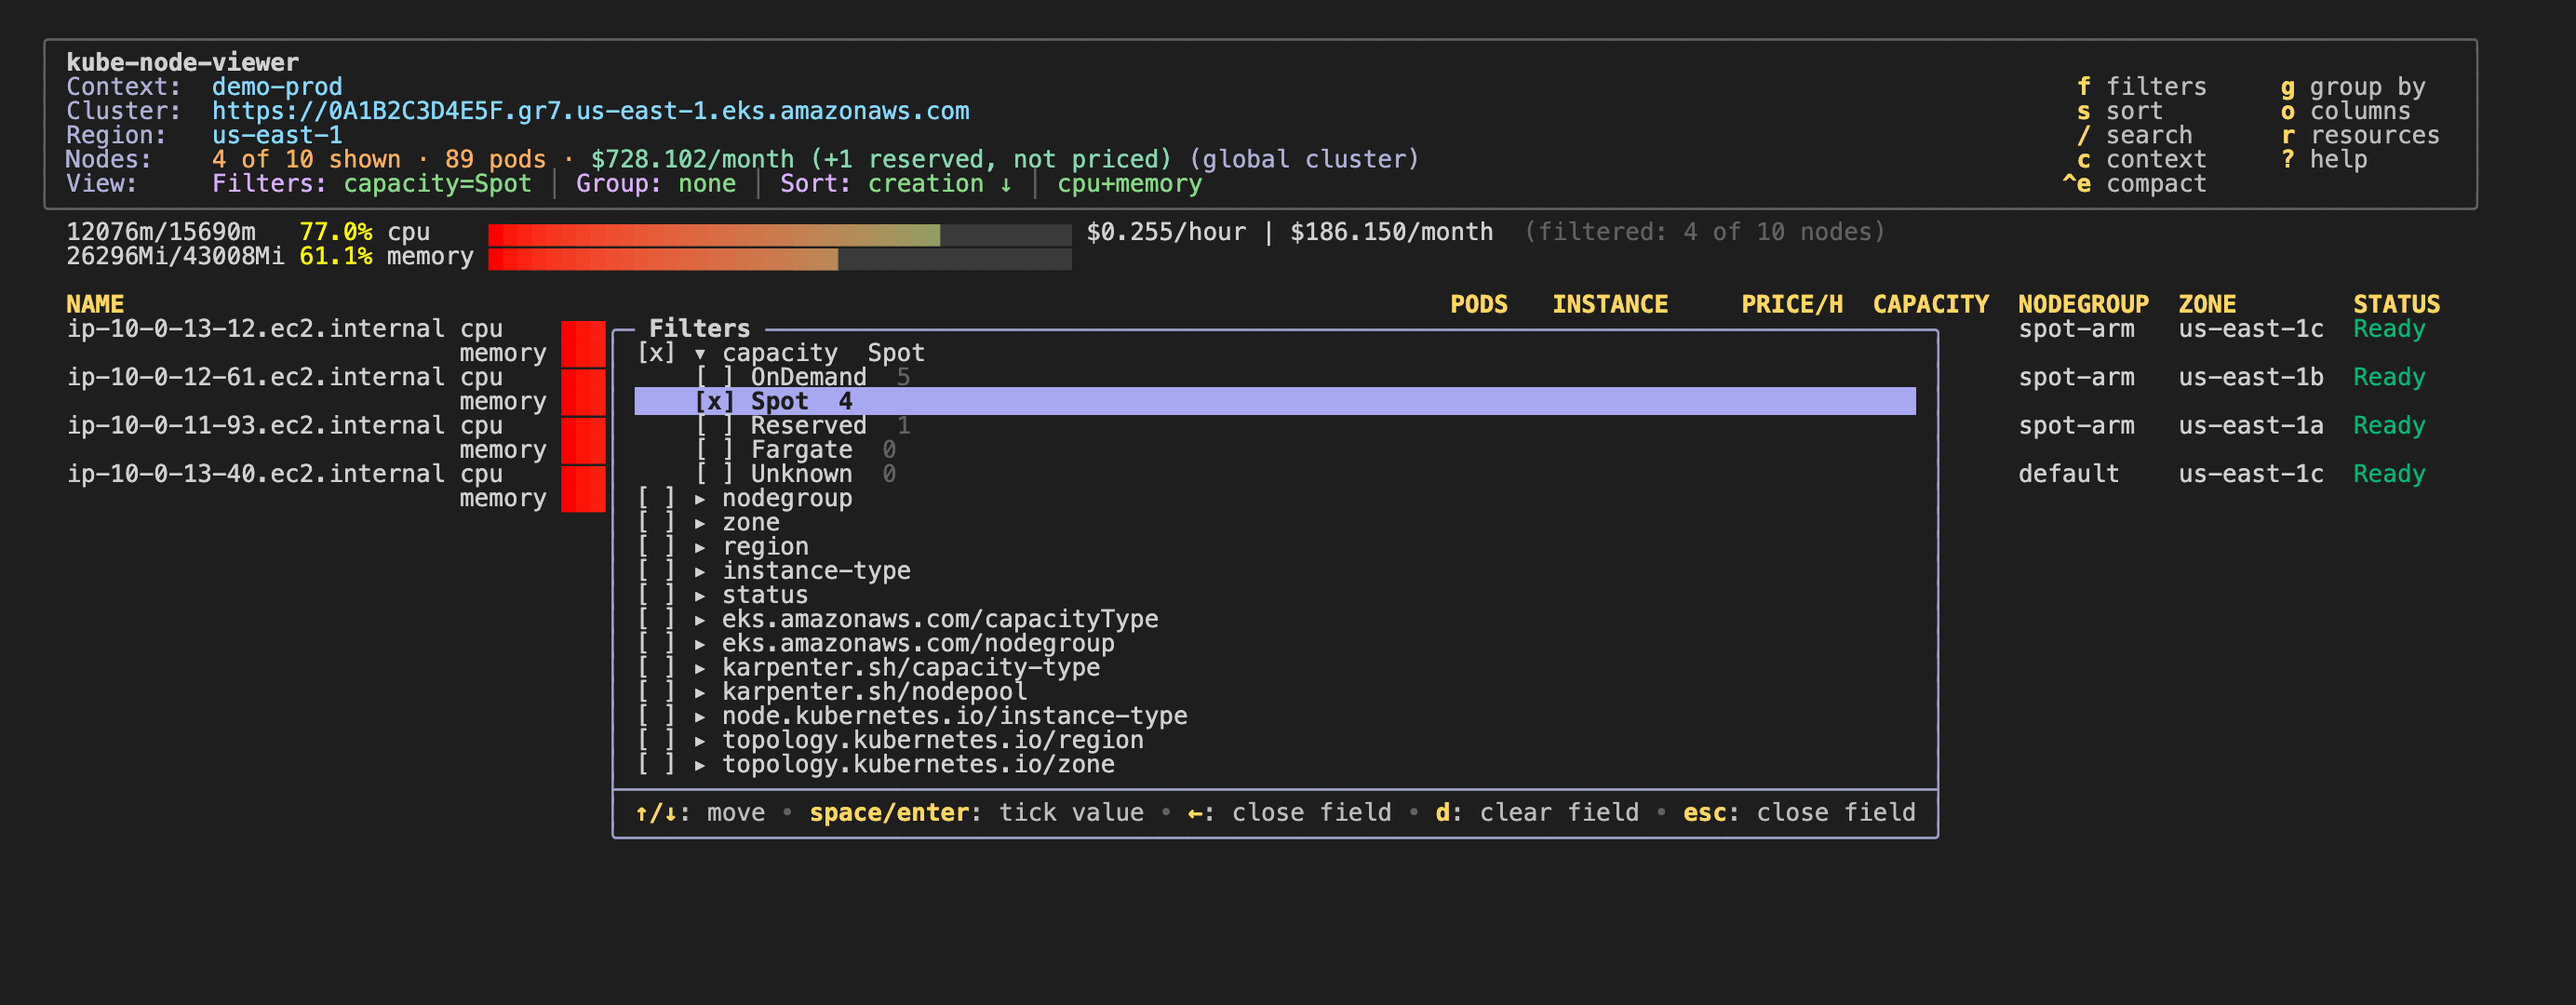
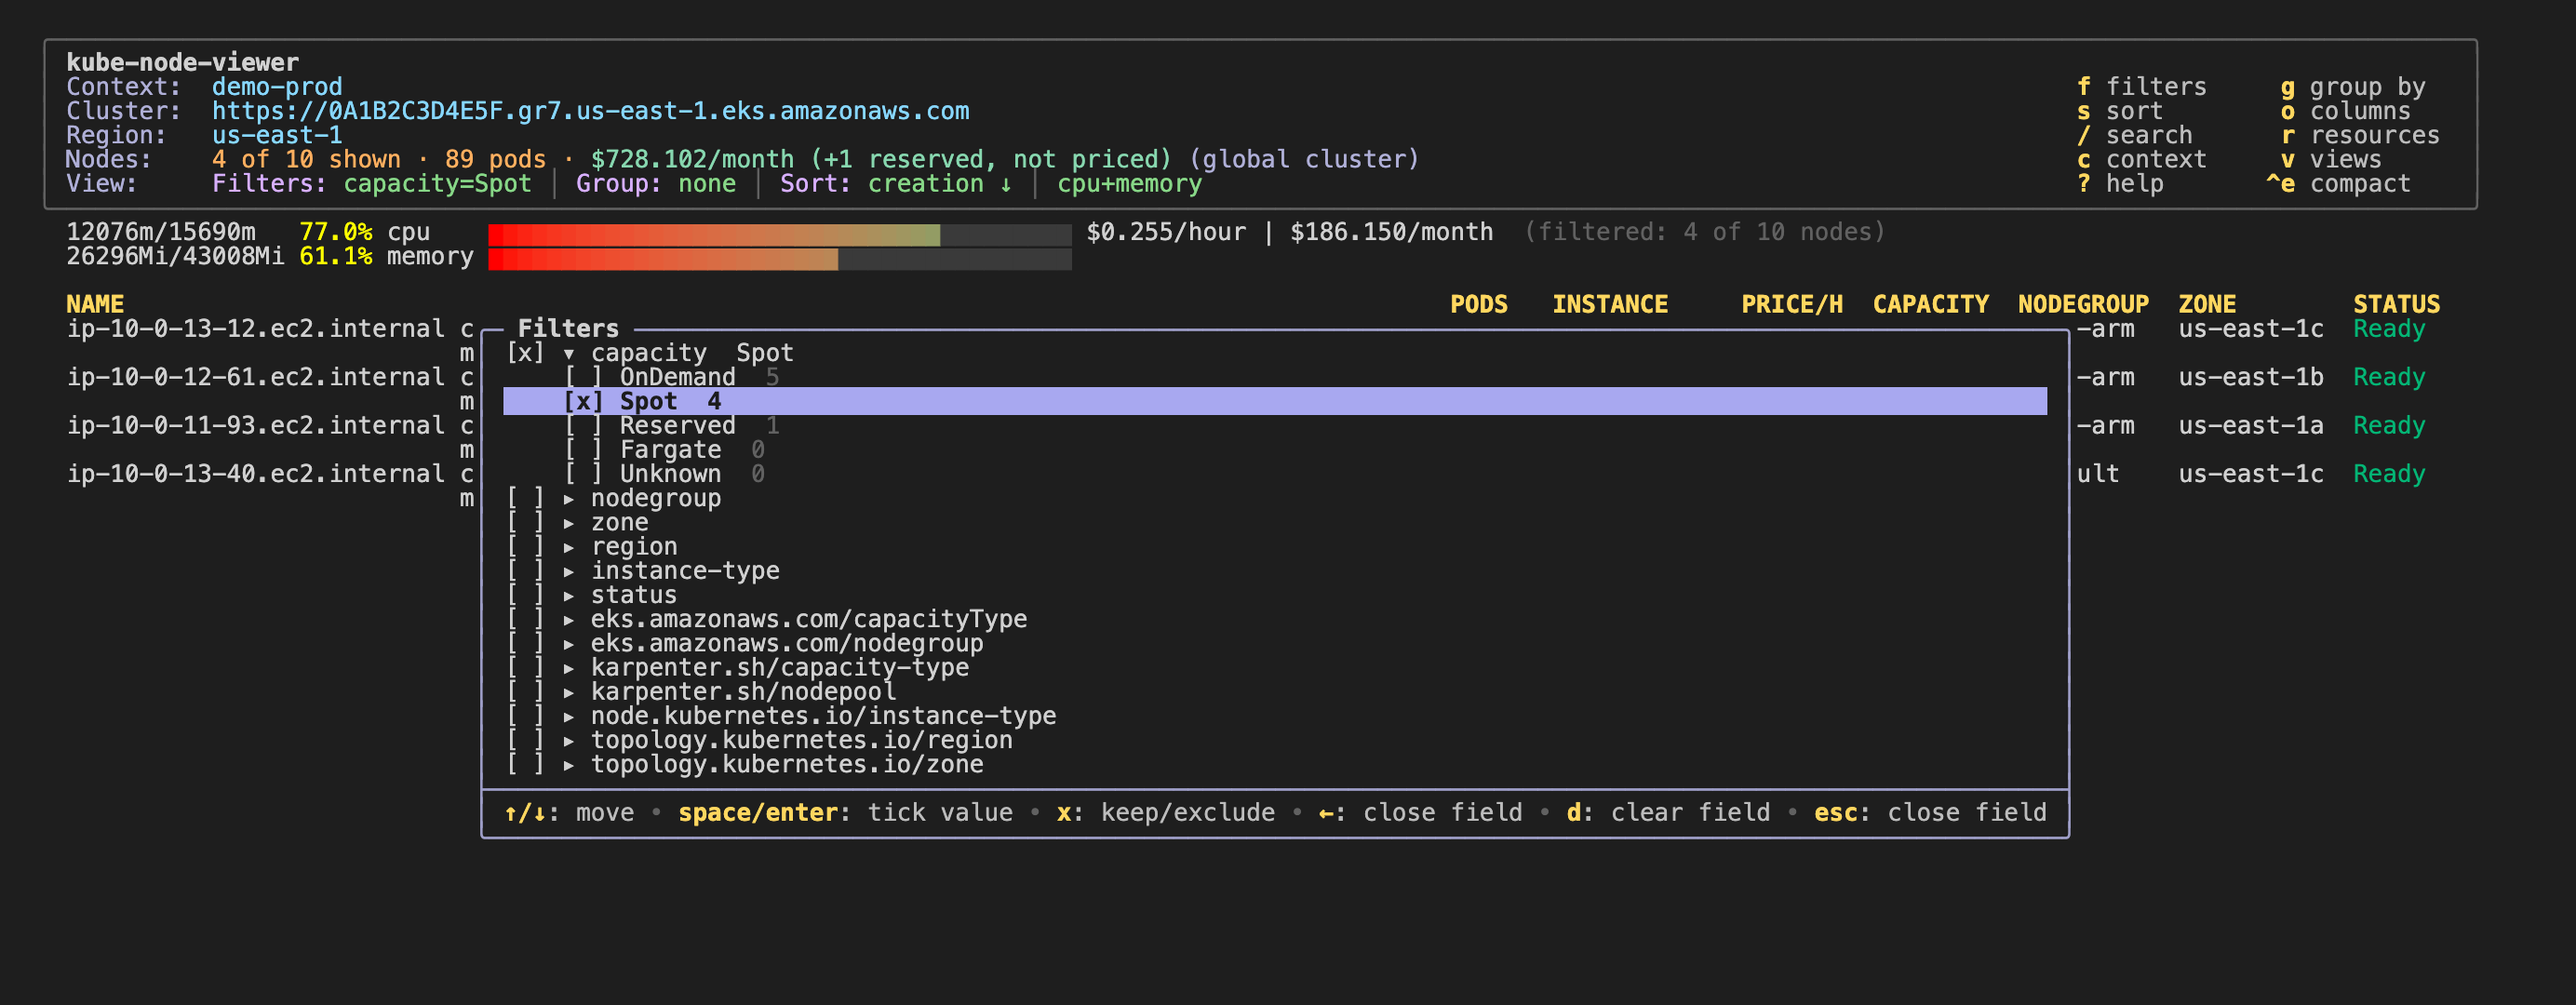
docs: views and export in README, CHANGELOG and screenshots

diff --git a/pkg/model/screenshots_test.go b/pkg/model/screenshots_test.go
@@ -157,6 +157,10 @@ func TestScreenshots(t *testing.T) {
 		{"group-by", 168, 38, func(u *UIModel) { press(u, "g", "down", " ", "down", "down", " ") }},
 		{"columns", 168, 38, func(u *UIModel) { press(u, "o") }},
 		{"contexts", 168, 38, func(u *UIModel) { apply(u, press(u, "c")) }},
+		{"views", 168, 38, func(u *UIModel) {
+			u.SetViews(memViews{"cost per nodepool": DefaultViewState(), "spot by zone": DefaultViewState()})
+			press(u, "v")
+		}},
 		// tall enough to start with the full panel, which ctrl+e compacts
 		{"header-compact", 168, 30, func(u *UIModel) { u.Update(tea.KeyMsg{Type: tea.KeyCtrlE}) }},
 	}

diff --git a/README.md b/README.md
@@ -152,6 +152,8 @@ With `ctrl+e` the header shrinks to two lines:
 | `n` | Fold one level per press when grouping: the nodes, then each sub-group level down to the top level; the next press unfolds all |
 | `d` | While folded: list the next group level under each group as one-line rows, or hide them |
 | `c` | Switch to another kubeconfig context |
+| `v` | Named views: apply one, save the current view under a name, delete |
+| `e` | Export the nodes on screen to CSV and JSON |
 | `ctrl+e` | Compact or expand the header |
 | `←`/`→`, `h`/`l`, `home` | Previous / next / first page |
 | `?` | All keys and colours |
@@ -173,7 +175,9 @@ Every field is listed (`capacity`, `nodegroup`, `zone`, `region`,
 already filtered first. `enter` (or `→`) opens a field in place and lists its
 values with the number of nodes having each; `space` ticks a value and the
 list filters at once. On a field row, `space` turns its filter off and on
-without losing the values, and `d` clears it. `←` or `esc` folds the field.
+without losing the values, `x` switches it between keeping and excluding
+the ticked values (`capacity≠Spot` keeps every node but Spot ones), and `d`
+clears it. `←` or `esc` folds the field.
 
 Values of one field combine with OR, fields with AND: `capacity ∈ {Spot}` and
 `zone ∈ {us-east-1a, us-east-1b}` keeps spot nodes in either zone. A status
@@ -228,6 +232,29 @@ Shown columns first, in screen order, then the others and every label.
 `space` shows or hides the column under the cursor (a new one goes at the
 end) and `K`/`J` move it left or right.
 
+### Views (`v`)
+
+![Views popup](.static/views.png)
+
+Named views are saved combinations of filters, group-by, folding, sort,
+resources and columns, shared by every cluster. `enter` applies one (it
+becomes the cluster's view, saved as usual), `d` deletes it, and
+`+ save current view as…` asks for a name: type it, `enter` saves, `esc`
+cancels. Saving under an existing name replaces it. A named view leaves out
+the search text, groups folded one by one and the header size.
+
+### Export (`e`)
+
+`e` writes every node the filters and search keep (all pages, folded groups
+included) to `kube-node-viewer-<context>-<YYYYMMDD-HHMMSS>.csv` and `.json`
+in the current directory, or next to the state file when the current
+directory is not writable; the footer says where. The CSV has one row per
+node: name, group path, instance type, capacity, node group, zone, region,
+IP, status, age, pods, requested / allocatable / percent per resource, price
+per hour, price kind (`actual`, `equivalent`, `unknown`, `disabled`) and the
+label columns you picked. The JSON adds the view, the totals of the exported
+nodes and of the cluster, the context and the time.
+
 ### Context (`c`)
 
 ![Context popup](.static/contexts.png)
@@ -241,7 +268,8 @@ stays in the panel and the current cluster keeps running.
 ## Saved view per cluster
 
 Filters, group-by, sort, resources, columns, folding depth, details, folded
-groups and the header size are saved per cluster (context name plus API server URL, since
+groups and the header size are saved per cluster, and named views (`v`) for
+all of them, (context name plus API server URL, since
 merged kubeconfigs can repeat context names) in
 `$XDG_STATE_HOME/kube-node-viewer/state.json`, by default
 `~/.local/state/kube-node-viewer/state.json`. Writes are batched and atomic,

diff --git a/CHANGELOG.md b/CHANGELOG.md
@@ -6,6 +6,15 @@ All notable changes to this project are documented here. Format:
 
 ## [Unreleased]
 
+### Added
+
+- Filters can exclude their values: `x` in the Filters panel switches a
+  filter between keeping and excluding (`capacity≠Spot`).
+- Named views (`v`): save the current view under a name, apply or delete it;
+  shared by every cluster, kept in the state file.
+- Export (`e`): the nodes on screen to CSV and JSON in the current directory
+  (or next to the state file), with groups, prices and price kinds.
+
 ### Changed
 
 - The cluster summary follows the filters and search: usage and cost are

diff --git a/specs/views-and-export/tasks.md b/specs/views-and-export/tasks.md
@@ -8,7 +8,7 @@
   - _Covers: R2 · Depends on: — · Verified by: state and key-driven tests_
 - [x] T3. Export (`e`): CSV and JSON of the nodes on screen, off the UI goroutine, footer notice
   - _Covers: R3 · Depends on: — · Verified by: unit tests writing to a temp dir_
-- [ ] T4. README (keys, files), CHANGELOG, screenshots
+- [x] T4. README (keys, files), CHANGELOG, screenshots
   - _Covers: — · Depends on: T1–T3 · Verified by: review_
 
 ## Deferred
